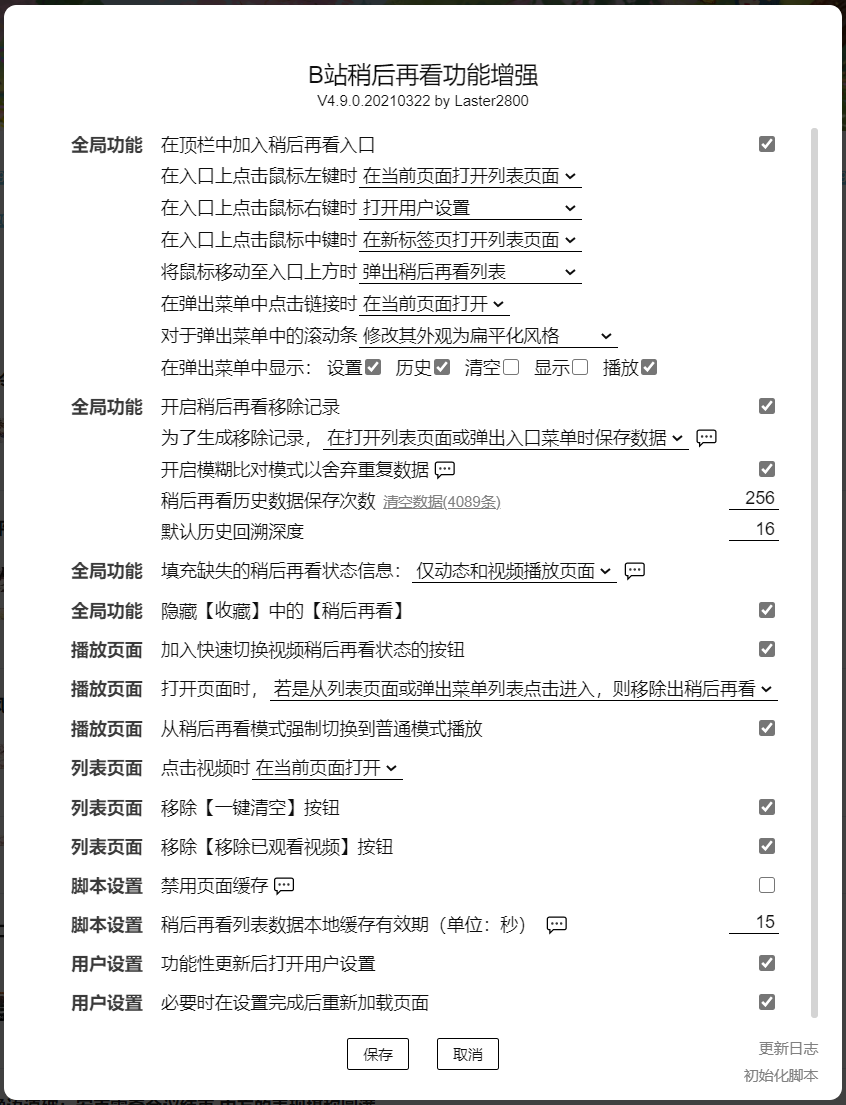
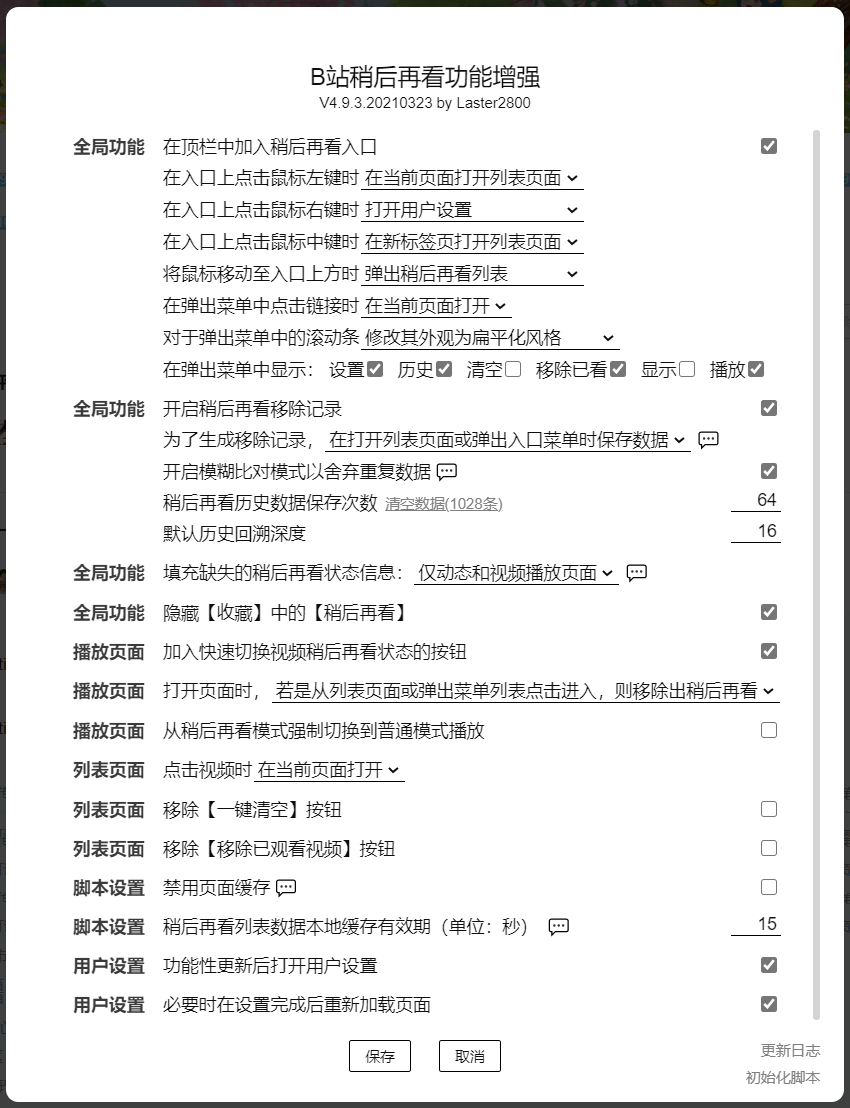
B站稍后再看功能增强 4.9.3.20210323
* 添加【移除稍后再看已观看视频】功能。
* UI 修正与优化。
* 修复重定向没有传递查询参数的问题。

diff --git a/BilibiliWatchlaterPlus/BilibiliWatchlaterPlus.js b/BilibiliWatchlaterPlus/BilibiliWatchlaterPlus.js
@@ -1,6 +1,6 @@
 // ==UserScript==
 // @name            B站稍后再看功能增强
-// @version         4.9.2.20210323
+// @version         4.9.3.20210323
 // @namespace       laster2800
 // @author          Laster2800
 // @description     与稍后再看功能相关，一切你能想到和想不到的功能
@@ -78,6 +78,7 @@
       playAllInCurrent: 'playAllInCurrent',
       playAllInNew: 'playAllInNew',
       clearWatchlater: 'clearWatchlater',
+      clearWatchedInWatchlater: 'clearWatchedInWatchlater',
       openUserSetting: 'openUserSetting',
       openRemoveHistory: 'openRemoveHistory',
       noOperation: 'noOperation',
@@ -178,6 +179,7 @@
    * @property {boolean} headerMenuFnSetting 弹出菜单：设置
    * @property {boolean} headerMenuFnHistory 弹出菜单：历史
    * @property {boolean} headerMenuFnRemoveAll 弹出菜单：清空
+   * @property {boolean} headerMenuFnRemoveWatched 弹出菜单：移除已看
    * @property {boolean} headerMenuFnShowAll 弹出菜单：显示
    * @property {boolean} headerMenuFnPlayAll 弹出菜单：播放
    * @property {boolean} removeHistory 稍后再看移除记录
@@ -256,7 +258,7 @@
    * @property {string} api_queryWatchlaterList 稍后再看列表数据
    * @property {api_videoInfo} api_videoInfo 视频信息
    * @property {string} api_addToWatchlater 将视频添加至稍后再看，要求 POST 一个含 `aid` 和 `csrf` 的表单
-   * @property {string} api_removeFromWatchlater 将视频从稍后再看移除，要求 POST 一个含 `aid` 和 `csrf` 的表单
+   * @property {string} api_removeFromWatchlater 将视频从稍后再看移除，移除一个视频要求 POST 一个含 `aid` 和 `csrf` 的表单，移除已观看要求 POST 一个含 `viewed=true` 和 `csrf` 的表单
    * @property {string} api_clearWatchlater 清空稍后再看，要求 POST 一个含 `csrf` 的表单
    * @property {string} page_watchlaterList 列表页面
    * @property {string} page_videoNormalMode 正常模式播放页
@@ -306,20 +308,21 @@
   const gm = {
     id: gmId,
     configVersion: GM_getValue('configVersion'),
-    configUpdate: 20210322.1,
+    configUpdate: 20210323,
     searchParams: new URL(location.href).searchParams,
     config: {},
     configMap: {
       headerButton: { default: true, attr: 'checked' },
-      headerButtonOpL: { default: Enums.headerButtonOp.openListInCurrent, attr: 'value', configVersion: 20201016 },
-      headerButtonOpR: { default: Enums.headerButtonOp.openUserSetting, attr: 'value', configVersion: 20201016 },
-      headerButtonOpM: { default: Enums.headerButtonOp.openListInNew, attr: 'value', configVersion: 20201016 },
+      headerButtonOpL: { default: Enums.headerButtonOp.openListInCurrent, attr: 'value', configVersion: 20210323 },
+      headerButtonOpR: { default: Enums.headerButtonOp.openUserSetting, attr: 'value', configVersion: 20210323 },
+      headerButtonOpM: { default: Enums.headerButtonOp.openListInNew, attr: 'value', configVersion: 20210323 },
       headerMenu: { default: Enums.headerMenu.enable, attr: 'value', configVersion: 20210322 },
       openHeaderMenuLink: { default: Enums.openHeaderMenuLink.openInCurrent, attr: 'value', configVersion: 20200717 },
       menuScrollbarSetting: { default: Enums.menuScrollbarSetting.beautify, attr: 'value', configVersion: 20200722 },
       headerMenuFnSetting: { default: true, attr: 'checked', configVersion: 20210322 },
       headerMenuFnHistory: { default: true, attr: 'checked', configVersion: 20210322 },
       headerMenuFnRemoveAll: { default: false, attr: 'checked', configVersion: 20210322 },
+      headerMenuFnRemoveWatched: { default: true, attr: 'checked', configVersion: 20210323 },
       headerMenuFnShowAll: { default: false, attr: 'checked', configVersion: 20210322 },
       headerMenuFnPlayAll: { default: true, attr: 'checked', configVersion: 20210322 },
       removeHistory: { default: true, attr: 'checked', manual: true },
@@ -807,6 +810,9 @@
                           <span>清空</span><input id="gm-headerMenuFnRemoveAll" type="checkbox">
                         </label>
                         <label class="gm-lineitem">
+                          <span>移除已看</span><input id="gm-headerMenuFnRemoveWatched" type="checkbox">
+                        </label>
+                        <label class="gm-lineitem">
                           <span>显示</span><input id="gm-headerMenuFnShowAll" type="checkbox">
                         </label>
                         <label class="gm-lineitem">
@@ -1100,6 +1106,7 @@
             <option value="${Enums.headerButtonOp.playAllInCurrent}">在当前页面播放全部</option>
             <option value="${Enums.headerButtonOp.playAllInNew}">在新标签页播放全部</option>
             <option value="${Enums.headerButtonOp.clearWatchlater}">清空稍后再看</option>
+            <option value="${Enums.headerButtonOp.clearWatchedInWatchlater}">移除稍后再看已观看视频</option>
             <option value="${Enums.headerButtonOp.openUserSetting}">打开用户设置</option>
             <option value="${Enums.headerButtonOp.openRemoveHistory}">打开稍后再看移除记录</option>
             <option value="${Enums.headerButtonOp.noOperation}">不执行操作</option>
@@ -1124,7 +1131,7 @@
           }
           el.headerMenuFn = el.headerMenuFnSetting.parentNode.parentNode
           el.headerButton.init = el.headerButton.onchange = function() {
-            subitemChange(this, [el.headerButtonOpL, el.headerButtonOpR, el.headerButtonOpM, el.headerMenu, el.openHeaderMenuLink, el.menuScrollbarSetting, el.headerMenuFnSetting, el.headerMenuFnHistory, el.headerMenuFnRemoveAll, el.headerMenuFnShowAll, el.headerMenuFnPlayAll])
+            subitemChange(this, [el.headerButtonOpL, el.headerButtonOpR, el.headerButtonOpM, el.headerMenu, el.openHeaderMenuLink, el.menuScrollbarSetting, el.headerMenuFnSetting, el.headerMenuFnHistory, el.headerMenuFnRemoveAll, el.headerMenuFnRemoveWatched, el.headerMenuFnShowAll, el.headerMenuFnPlayAll])
             if (this.checked) {
               el.headerMenuFn.removeAttribute('disabled')
             } else {
@@ -1860,6 +1867,36 @@
         },
 
         /**
+         * 移除稍后再看已观看视频
+         * @async
+         * @returns {Promise<boolean>} 操作是否成功
+         */
+        async clearWatchedInWatchlater() {
+          try {
+            const data = new FormData()
+            data.append('viewed', true)
+            data.append('csrf', this.getCSRF())
+            const resp = await api.web.request({
+              method: 'POST',
+              url: gm.url.api_removeFromWatchlater,
+              data: data,
+            })
+            const success = JSON.parse(resp.response).code == 0
+            if (success) {
+              gm.data._.watchlaterListData = null
+              if (gm.config.watchlaterListCacheValidPeriod > 0) {
+                GM_setValue('watchlaterListCacheTime', 0)
+              }
+            }
+            return success
+          } catch (e) {
+            api.logger.error(gm.error.NETWORK)
+            api.logger.error(e)
+            return false
+          }
+        },
+
+        /**
          * 保存稍后再看列表数据，用于后续操作
          *
          * 此操作回引起稍后再看历史数据的保存
@@ -2005,6 +2042,24 @@
       }
 
       /**
+       * 移除稍后再看已观看视频
+       * @async
+       * @returns {boolean} 是否移除成功
+       */
+      const clearWatchedInWatchlater = async () => {
+        let success = false
+        const result = confirm(`【${GM_info.script.name}】\n\n是否移除稍后再看已观看视频？`)
+        if (result) {
+          success = await this.method.clearWatchedInWatchlater()
+          api.message.create(`移除稍后再看已观看视频${success ? '成功' : '失败'}`)
+          if (success && api.web.urlMatch(gm.regex.page_watchlaterList)) {
+            location.reload()
+          }
+        }
+        return success
+      }
+
+      /**
        * 处理鼠标点击事件
        * @param {HTMLElement} watchlater 稍后再看入口元素
        */
@@ -2027,6 +2082,9 @@
             }
             case Enums.headerButtonOp.clearWatchlater:
               clearWatchlater()
+              break
+            case Enums.headerButtonOp.clearWatchedInWatchlater:
+              clearWatchedInWatchlater()
               break
             case Enums.headerButtonOp.openUserSetting:
               _self.script.openUserSetting()
@@ -2075,7 +2133,7 @@
           this.mouseOver = true
           if (!gm.menu.entryPopup.state) {
             popup.style.top = `calc(${watchlater.offsetTop + watchlater.offsetHeight}px + 1em)`
-            popup.style.left = `calc(${watchlater.offsetLeft + watchlater.offsetWidth / 2}px - 15em)`
+            popup.style.left = `calc(${watchlater.offsetLeft + watchlater.offsetWidth / 2}px - 16em)`
             openEntryPopup()
           }
         }
@@ -2141,6 +2199,7 @@
                 <a class="gm-entry-button" fn="setting" href="${gm.url.noop}" target="${target}">设置</a>
                 <a class="gm-entry-button" fn="history" href="${gm.url.noop}" target="${target}">历史</a>
                 <a class="gm-entry-button" fn="removeAll" href="${gm.url.noop}" target="${target}">清空</a>
+                <a class="gm-entry-button" fn="removeWatched" href="${gm.url.noop}" target="${target}">移除已看</a>
                 <a class="gm-entry-button" fn="showAll" href="${gm.url.page_watchlaterList}" target="${target}">显示</a>
                 <a class="gm-entry-button" fn="playAll" href="${gm.url.page_watchlaterPlayAll}" target="${target}">播放</a>
               </div>
@@ -2173,11 +2232,16 @@
               }
               if (gm.config.headerMenuFnRemoveAll) {
                 el.entryFn.removeAll.setAttribute('enabled', '')
-                el.entryFn.removeAll.addEventListener('click', async function() {
-                  const success = await clearWatchlater()
-                  if (success) {
-                    el.entryList.innerText = ''
-                  }
+                el.entryFn.removeAll.addEventListener('click', function() {
+                  _self.script.closeMenuItem('entryPopup')
+                  clearWatchlater()
+                })
+              }
+              if (gm.config.headerMenuFnRemoveWatched) {
+                el.entryFn.removeWatched.setAttribute('enabled', '')
+                el.entryFn.removeWatched.addEventListener('click', function() {
+                  _self.script.closeMenuItem('entryPopup')
+                  clearWatchedInWatchlater()
                 })
               }
               if (gm.config.headerMenuFnShowAll) {
@@ -2248,7 +2312,7 @@
                     `
                     if (played) {
                       card.querySelector('.gm-card-progress').style.display = 'unset'
-                      card.querySelector('.gm-card-uploader').style.width = '13em'
+                      card.querySelector('.gm-card-uploader').style.width = '15em'
                     }
 
                     const switcher = card.querySelector('.gm-card-switcher')
@@ -2299,8 +2363,6 @@
                     })
                   }
                 }
-                el.entryList.style.opacity = '1'
-                el.entryList.scrollTop = 0
               } catch (e) {
                 api.logger.error(gm.error.NETWORK)
                 api.logger.error(e)
@@ -2308,7 +2370,11 @@
               if (simplePopup) {
                 el.entryList.lastElementChild.style.borderBottom = 'none'
               }
+            } else {
+              el.entryList.innerHTML = '<div class="gm-entry-list-empty">稍后再看列表为空</div>'
             }
+            el.entryList.style.opacity = '1'
+            el.entryList.scrollTop = 0
             if (gm.config.removeHistory && gm.config.removeHistorySavePoint == Enums.removeHistorySavePoint.listAndMenu) {
               _self.method.saveWatchlaterListData()
             }
@@ -2632,7 +2698,7 @@
           const json = JSON.parse(resp.responseText)
           bvid = json.data.list[0].bvid
         }
-        location.replace(`${gm.url.page_videoNormalMode}/${bvid}`)
+        location.replace(`${gm.url.page_videoNormalMode}/${bvid}${location.search}`)
       } catch (e) {
         const errorInfo = gm.error.REDIRECT
         api.logger.error(errorInfo)
@@ -2995,7 +3061,7 @@
           z-index: 10000;
           user-select: none;
           border-radius: 4px;
-          width: 30em;
+          width: 32em;
           border: none;
           box-shadow: var(--box-shadow-color) 0px 3px 6px;
           background-color: var(--background-color);
@@ -3004,7 +3070,7 @@
           position: absolute;
           z-index: -1;
           top: -14px;
-          left: calc(15em - 7px);
+          left: calc(16em - 7px);
           width: 0;
           height: 0;
           border-width: 8px;
@@ -3015,10 +3081,21 @@
         }
 
         #${gm.id} .gm-entrypopup .gm-entry-list {
+          position: relative;
           height: 39em;
           overflow-y: auto;
           padding: 0.2em 0;
           transition: var(--opacity-fade-popup-transition);
+        }
+        #${gm.id} .gm-entrypopup .gm-entry-list .gm-entry-list-empty {
+          position: absolute;
+          top: calc(50% - 2em);
+          left: calc(50% - 7em);
+          line-height: 4em;
+          width: 14em;
+          font-size: 1.4em;
+          text-align: center;
+          color: var(--hint-text-color);
         }
 
         #${gm.id} .gm-entrypopup .gm-entry-list .gm-entry-list-item {
@@ -3087,7 +3164,7 @@
           overflow: hidden;
           text-overflow: ellipsis;
           word-break: break-all;
-          width: 15em;
+          width: 17em;
           height: 2.8em;
         }
         #${gm.id} .gm-entrypopup .gm-entry-list .gm-entry-list-item.removed .gm-card-title {
@@ -3098,7 +3175,7 @@
           text-overflow: ellipsis;
           white-space: nowrap;
           overflow: hidden;
-          width: 18em;
+          width: 21em;
           color: var(--hint-text-color);
         }
         #${gm.id} .gm-entrypopup .gm-entry-list .gm-entry-list-item .gm-card-progress {
@@ -3231,6 +3308,9 @@
         }
         #${gm.id} .gm-setting .gm-subitem .gm-lineitem:hover {
           color: var(--hightlight-color);
+        }
+        #${gm.id} .gm-setting .gm-subitem .gm-lineitems[disabled] .gm-lineitem {
+          color: var(--disabled-color);
         }
         #${gm.id} .gm-setting .gm-subitem .gm-lineitem input[type=checkbox] {
           margin-left: 2px;

diff --git a/BilibiliWatchlaterPlus/changelog.md b/BilibiliWatchlaterPlus/changelog.md
@@ -4,11 +4,13 @@
 
 ## V4.9
 
-1. 功能实现：禁用页面缓存。
-2. 顶栏入口：重做弹出菜单，不再引用B站原生的稍后再看列表组件，并在其中实现进度显示、状态切换、快捷功能等功能。对应地，增加隐藏【收藏】中【稍后再看】功能。感谢 [79115](https://greasyfork.org/zh-CN/scripts/395456/discussions/79115) 让我下定重做这一功能的决心。
-3. 重定向：不再影响【播放全部】等相关功能。
-4. 确保视频一致性：经过大半年时间，B站的程序员总算发现视频不一致的 BUG 并将其修好。既然如此，这一功能已经没有存在的必要了，移除。
-5. 适配B站稍后再看模式播放页改版：这次改版导致了重定向以及涉及到稍后再看模式播放页的种种功能均出现一定问题。
+1. 功能移除：确保视频一致性。经过大半年时间，B站的程序员总算发现视频不一致的 BUG 并将其修好。既然如此，这一功能已经没有存在的必要了，移除。
+2. 功能实现：禁用页面缓存。
+3. 顶栏入口：重做弹出菜单，不再引用B站原生的稍后再看列表组件，并在其中实现进度显示、状态切换、快捷功能等功能。对应地，增加隐藏【收藏】中【稍后再看】功能。感谢 [79115](https://greasyfork.org/zh-CN/scripts/395456/discussions/79115) 让我下定重做这一功能的决心。
+4. 顶栏入口：添加【移除稍后再看已观看视频】功能，可在入口上通过各种方式调用。
+5. 重定向：不再影响【播放全部】等相关功能。
+6. 重定向：修复重定向时没有传递查询参数的问题。该问题会导致重定向时无法执行自动移除功能，以及一系列潜在问题。
+7. 脚本：适配B站稍后再看模式播放页改版，这次改版导致了重定向以及涉及到稍后再看模式播放页的种种功能均出现一定问题。
 
 > 忍不住吐槽一下，之前B站那个稍后再看模式播放页设计得实在是太蠢了。其设计逻辑反人类，导致 BUG 一堆且巨难用。上一版本的脚本不得不花了很大力气在该页面上缝缝补补，尤其是【确保视频一致性】这一帮官方修 BUG 的功能，使用了大量奇技淫巧。实际上这些问题从官方角度非常好解决，这次B站对该页面的更新正好就说明了这一点。
 

diff --git a/BilibiliWatchlaterPlus/README.md b/BilibiliWatchlaterPlus/README.md
@@ -17,17 +17,17 @@
 
     ![设置入口](https://gitee.com/liangjiancang/userscript/raw/master/BilibiliWatchlaterPlus/screenshot/设置入口.png)
 
-* 移除记录
-
-    ![移除记录](https://gitee.com/liangjiancang/userscript/raw/master/BilibiliWatchlaterPlus/screenshot/移除记录.png)
-
 * 顶栏入口、快速切换（普通模式和稍后再看模式）
 
     ![顶栏入口、快速切换（普通模式和稍后再看模式）](https://gitee.com/liangjiancang/userscript/raw/master/BilibiliWatchlaterPlus/screenshot/顶栏入口、快速切换（普通模式和稍后再看模式）.png)
 
 * 入口菜单
 
-    ![入口菜单](https://gitee.com/liangjiancang/userscript/raw/master/BilibiliWatchlaterPlus/screenshot/入口菜单.png)
+  ![入口菜单](https://gitee.com/liangjiancang/userscript/raw/master/BilibiliWatchlaterPlus/screenshot/入口菜单.png)
+
+* 移除记录
+
+    ![移除记录](https://gitee.com/liangjiancang/userscript/raw/master/BilibiliWatchlaterPlus/screenshot/移除记录.png)
 
 * 列表页UI
 
